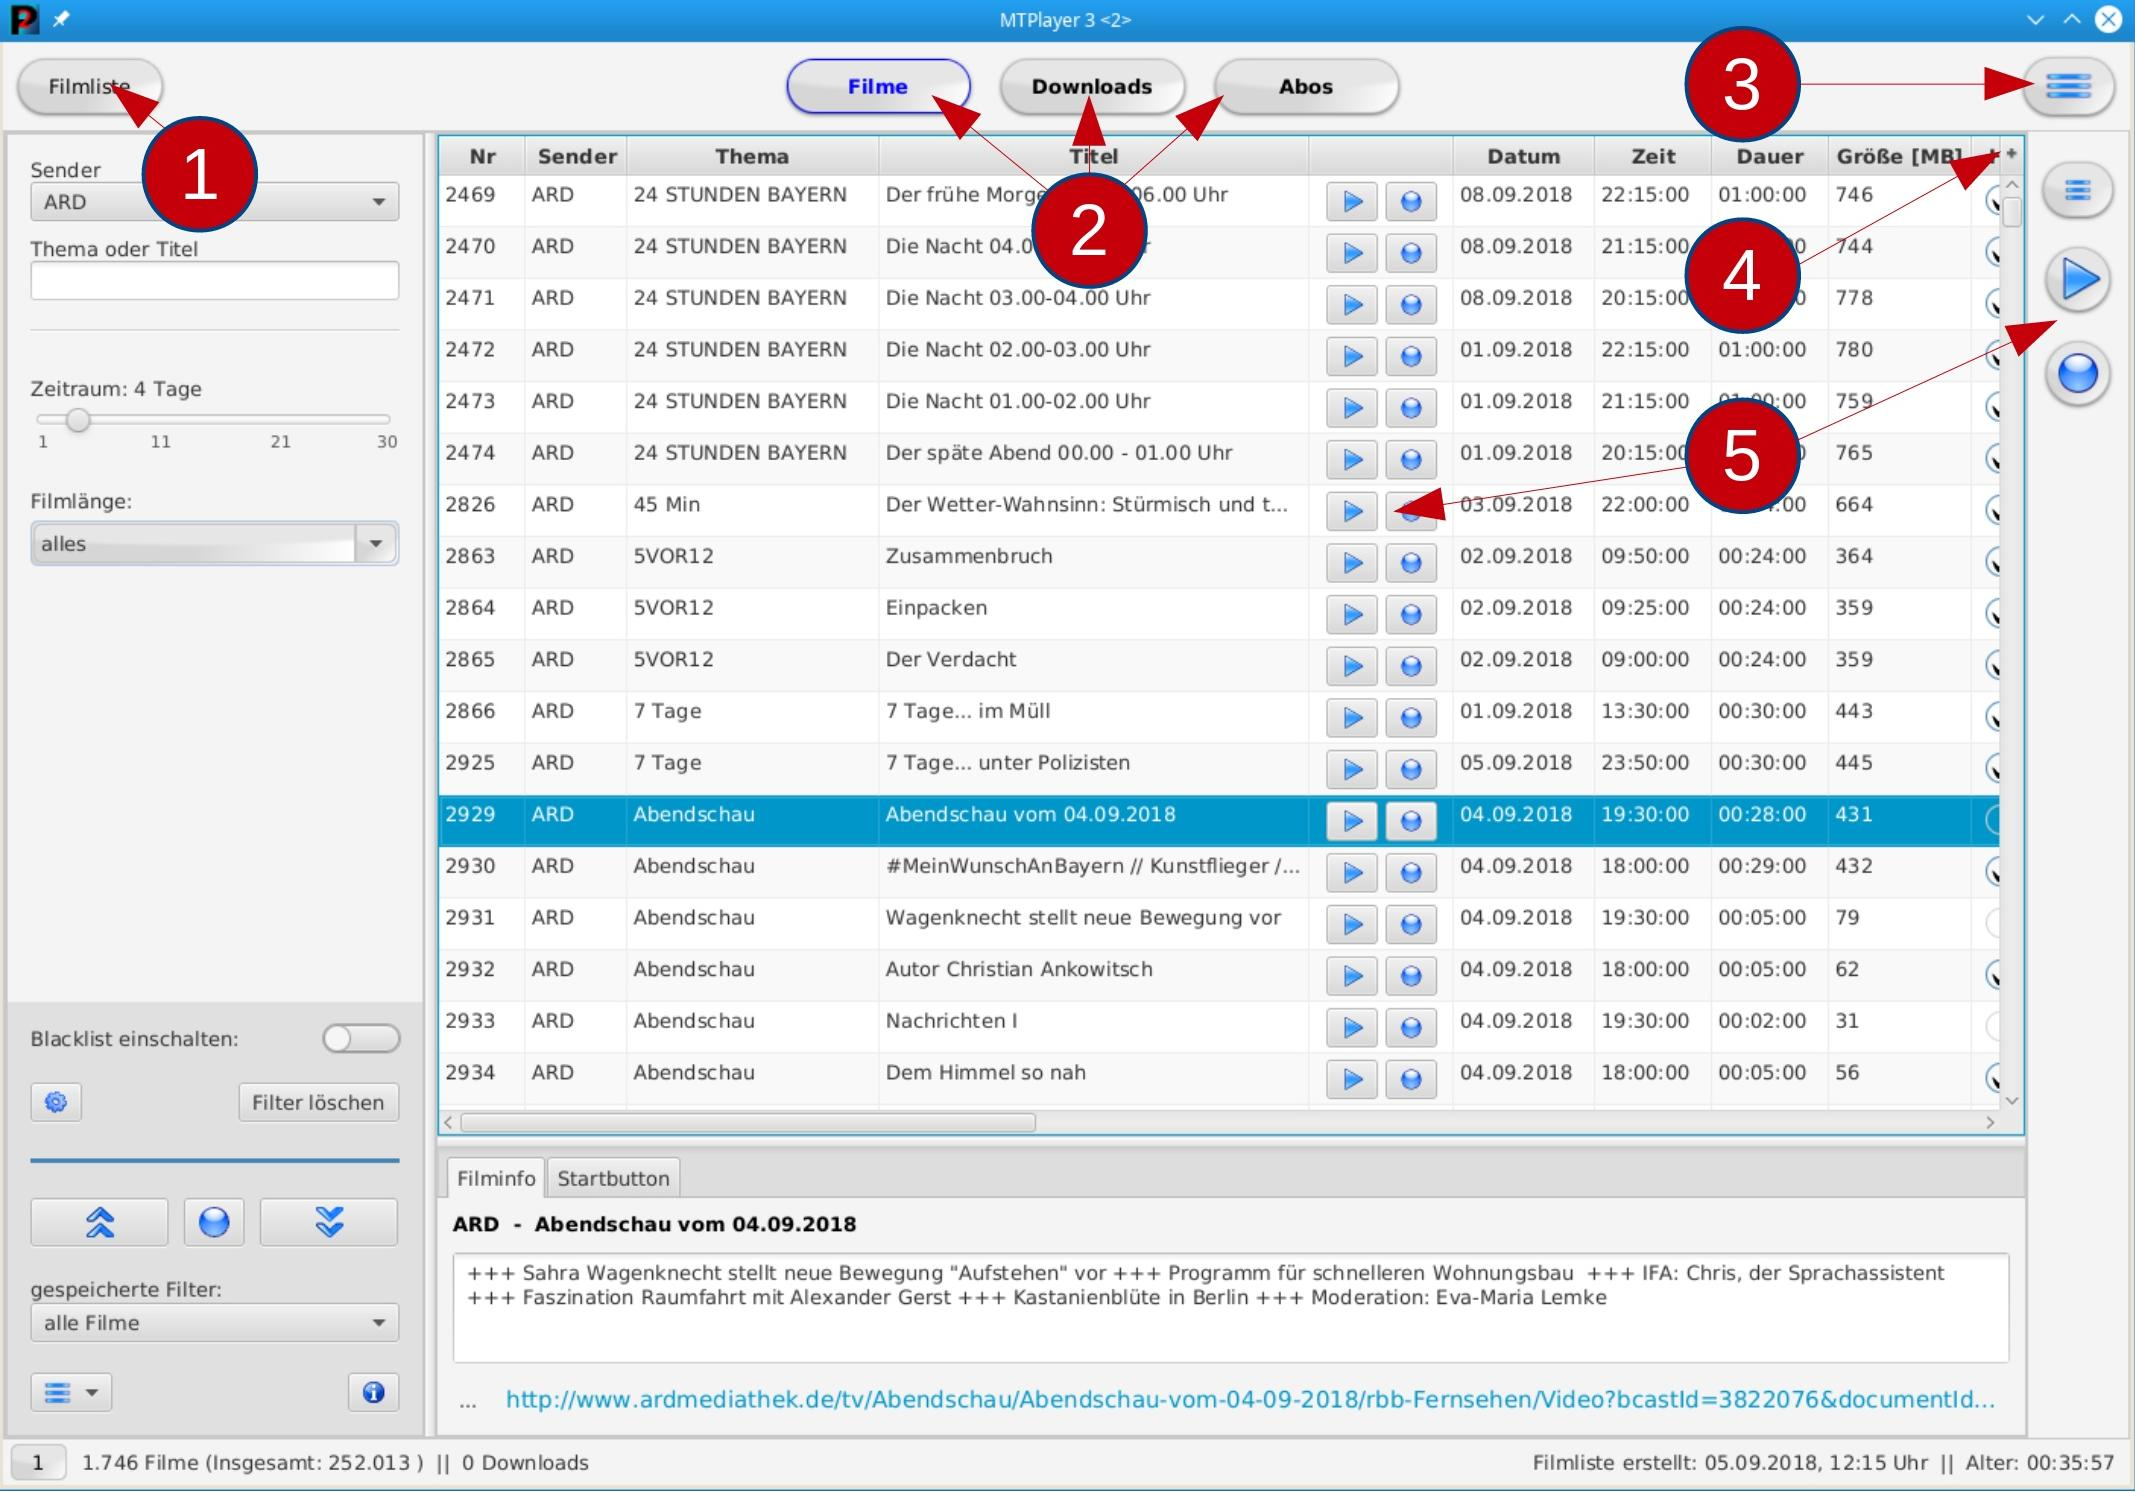
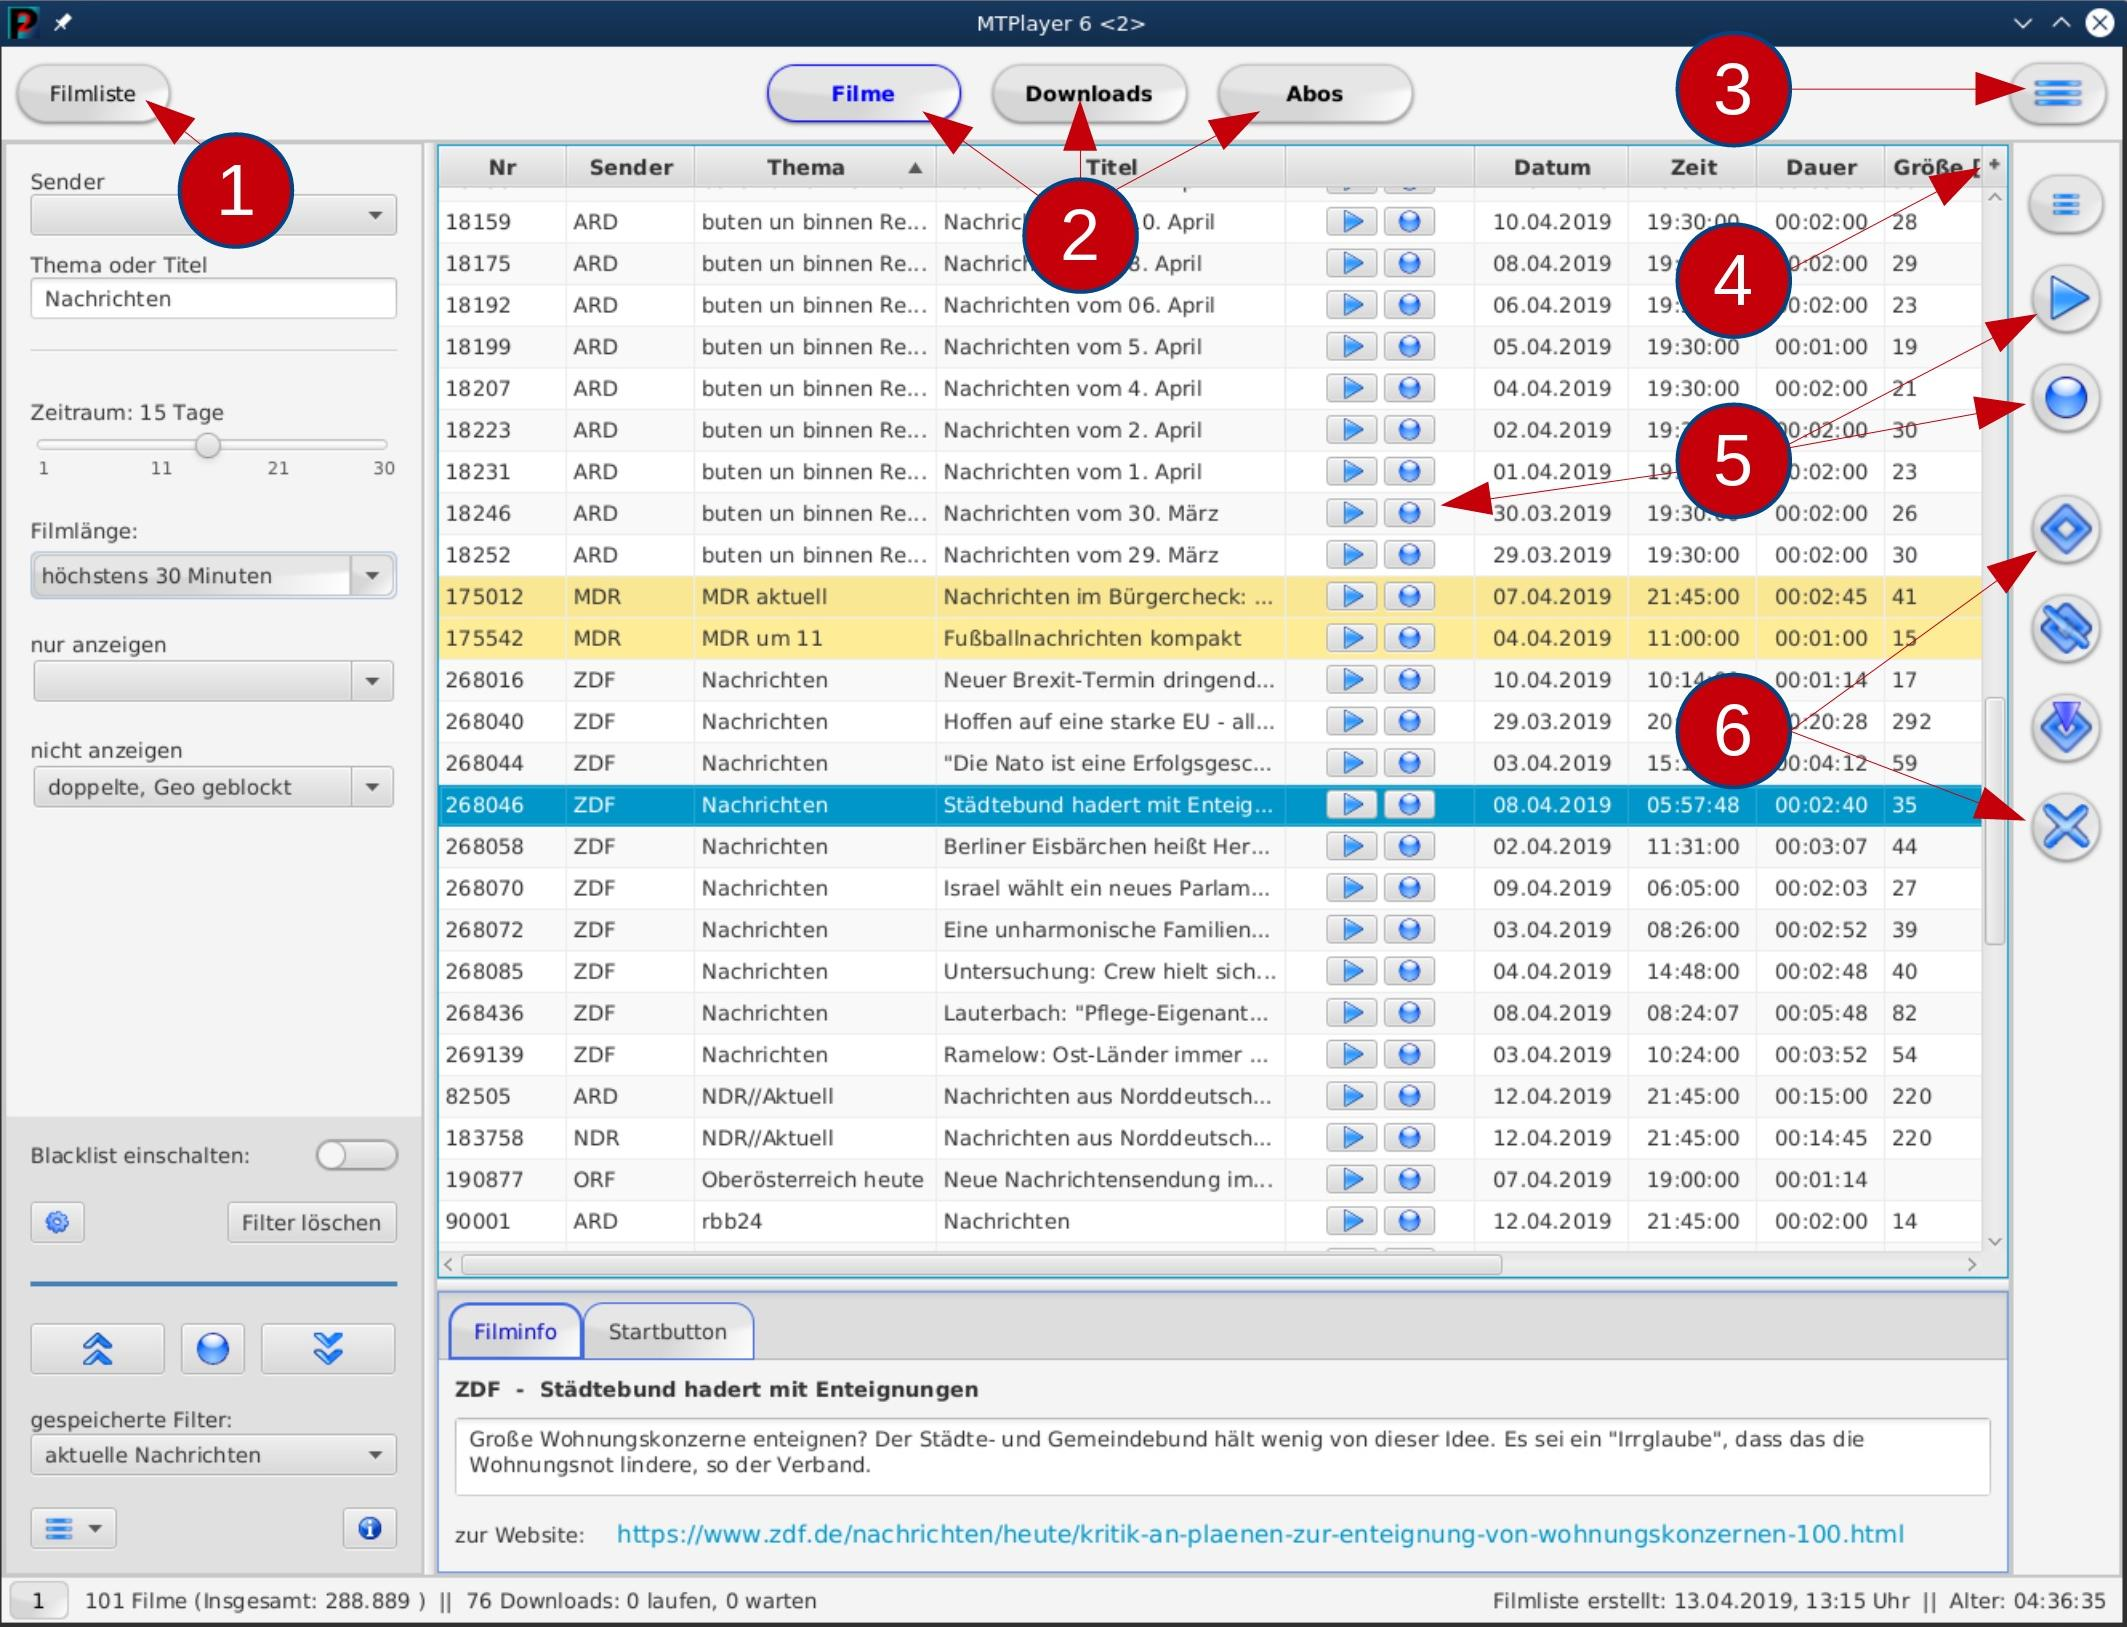
startPane

diff --git a/src/main/java/de/mtplayer/mtp/gui/startDialog/StartPane.java b/src/main/java/de/mtplayer/mtp/gui/startDialog/StartPane.java
@@ -45,21 +45,33 @@ public class StartPane {
         iv.setImage(im);
 
         hBox.getChildren().addAll(iv);
-        Label text = new Label("1) Hier kann die Filmliste" + PConst.LINE_SEPARATOR +
-                "aktualisiert werden." +
+        Label text = new Label("1) Hier wird die Filmliste" + PConst.LINE_SEPARATOR +
+                "aktualisiert." +
+
                 PConst.LINE_SEPARATORx2 +
                 "2) Die Ansicht der Filme, Downloads" + PConst.LINE_SEPARATOR +
                 "oder Abos wird hier umgeschaltet." +
+
                 PConst.LINE_SEPARATORx2 +
                 "3) Hier befinden sich" + PConst.LINE_SEPARATOR +
                 "die Programmeinstellungen." +
+
                 PConst.LINE_SEPARATORx2 +
                 "4) Mit dem Pluszeichen können" + PConst.LINE_SEPARATOR +
                 "Spalten in der Tabelle" + PConst.LINE_SEPARATOR +
                 "ein- und ausgeblendet werden." +
+
                 PConst.LINE_SEPARATORx2 +
                 "5) Damit kann man Filme ansehen" + PConst.LINE_SEPARATOR +
-                "und speichern.");
+                "und speichern." +
+
+                PConst.LINE_SEPARATORx2 +
+                "6) Hier lassen sich einzelne Filme vormerken," + PConst.LINE_SEPARATOR +
+                "die Vormerkung wieder löschen" + PConst.LINE_SEPARATOR +
+                "und vorgemerkte Filme anzeigen." + PConst.LINE_SEPARATOR +
+                "Zuletzt werden alle Vormerkungen" + PConst.LINE_SEPARATOR +
+                "wieder gelöscht.");
+
         hBox.getChildren().add(text);
 
         TitledPane tpConfig = new TitledPane("Infos zur Programmoberfläche", hBox);
